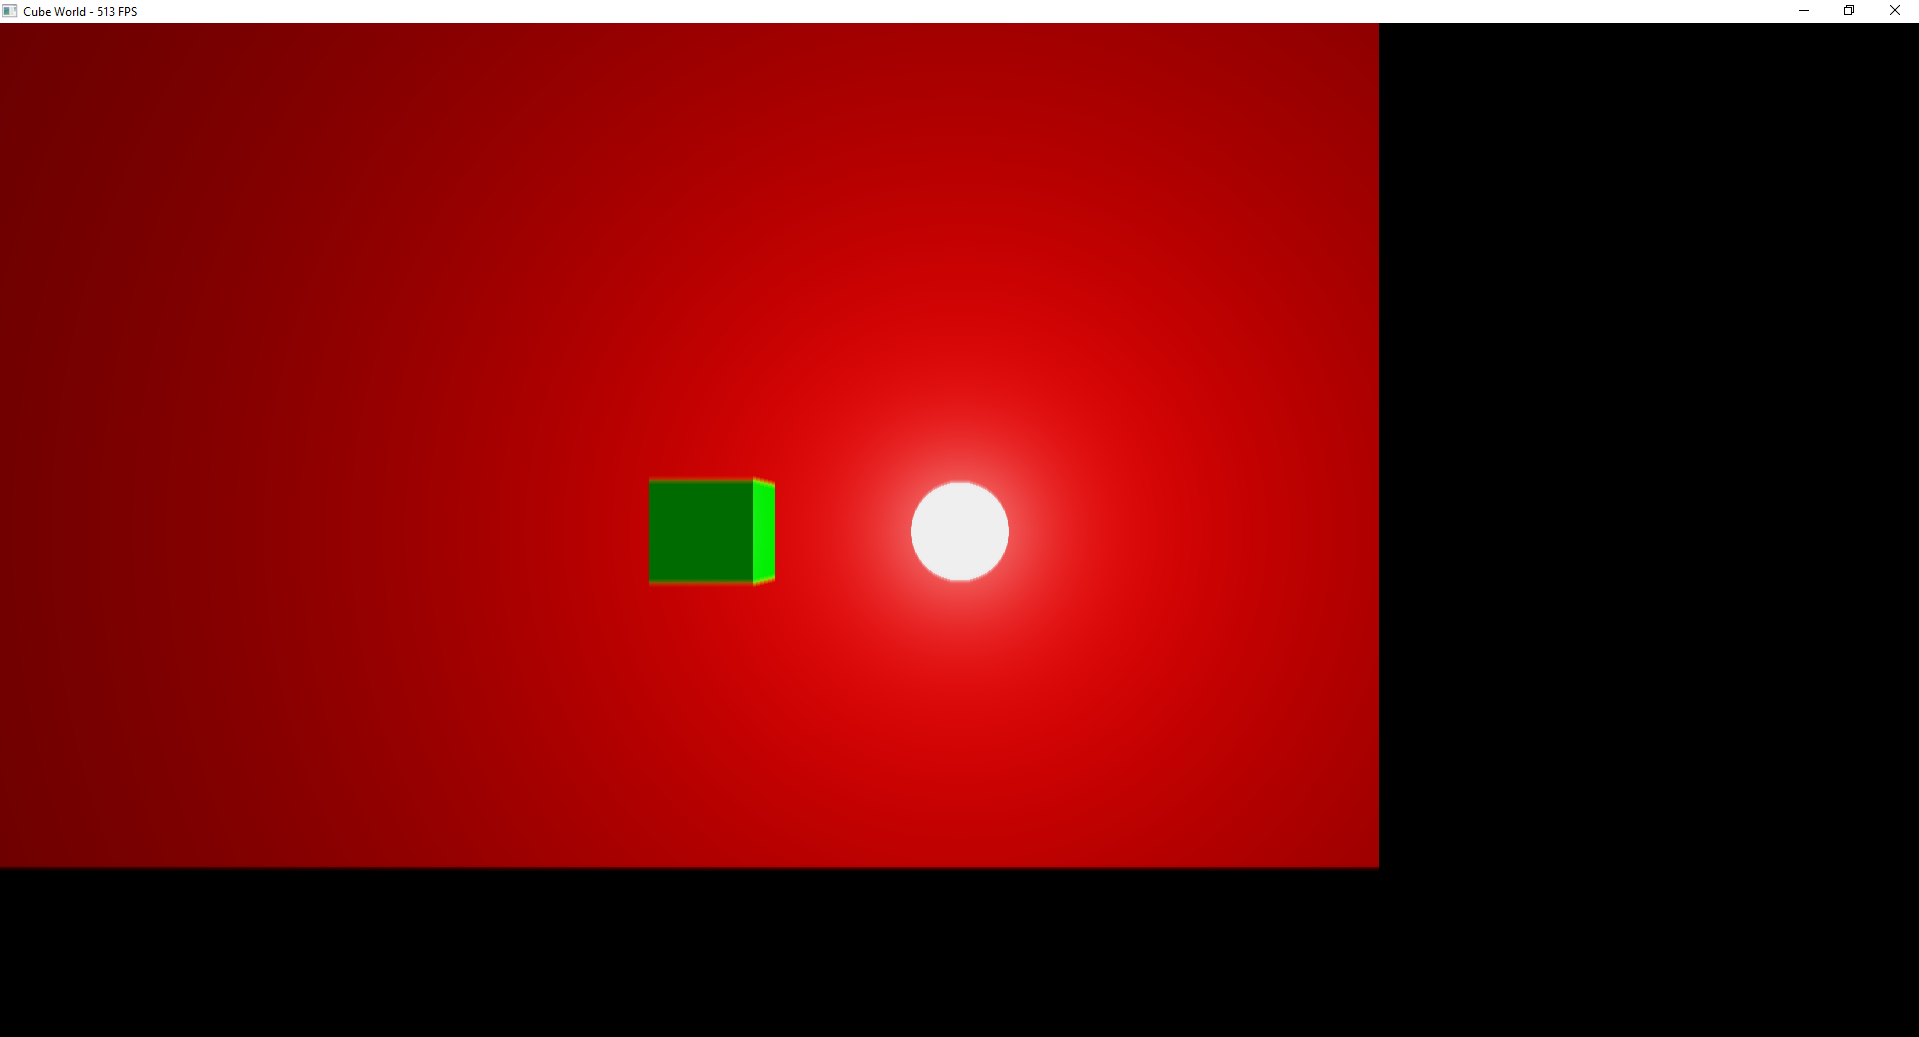
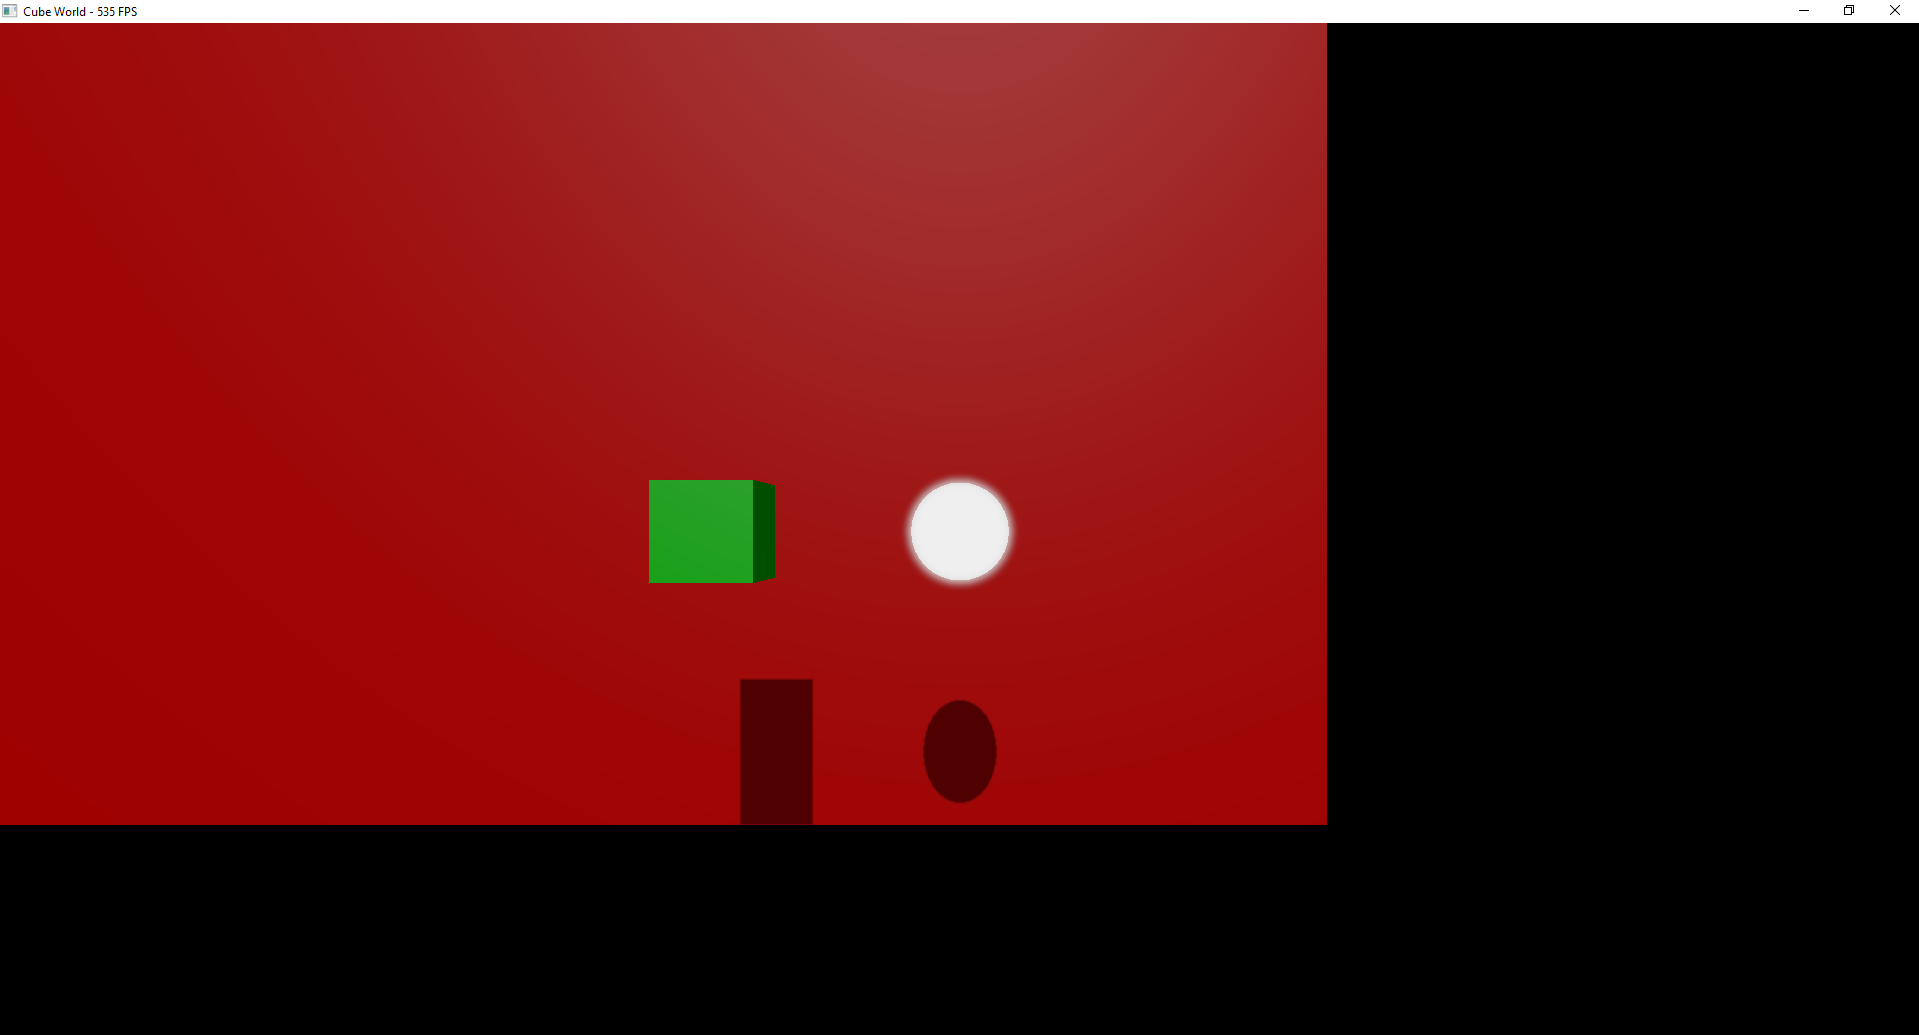
Обновлено изображение Реализованы тени от направленного источника света Убран порог срабатывания в LightBloom шейдере, для увеличения эффекта

diff --git a/src/Render/ForwardPlusPipeline.cpp b/src/Render/ForwardPlusPipeline.cpp
@@ -62,6 +62,8 @@ ForwardPlusPipeline::ForwardPlusPipeline()
     u32 attachments[2] = { GL_COLOR_ATTACHMENT0, GL_COLOR_ATTACHMENT1 };
     glDrawBuffers(2, attachments);
     glBindFramebuffer(GL_FRAMEBUFFER, 0);
+
+    initShadows();
 }
 
 ForwardPlusPipeline::~ForwardPlusPipeline()
@@ -133,9 +135,30 @@ void ForwardPlusPipeline::Resize(u16 offsetX, u16 offsetY, u16 width, u16 height
 
 void ForwardPlusPipeline::Render()
 {
-    // Depth stage
+    // Direction light shadow stage
     Shader &depth = (*shaders)["Depth"];
     depth.Use();
+
+    if (directionLight)
+    {
+        glm::mat4 vp = glm::ortho(-10.0f, 10.0f, -10.0f, 10.0f, 0.1f, 50.0f);
+        vp *= glm::lookAt(glm::vec3(directionLight.value().position), glm::vec3(directionLight.value().position) + glm::vec3(directionLight.value().direction), glm::vec3(0.0, 1.0, 0.0));
+        depth.SetMat4("vp", vp);
+
+        glViewport(0, 0, shaderMapEdgeSize, shaderMapEdgeSize);
+        glBindFramebuffer(GL_FRAMEBUFFER, dirDepthMapFBO);
+        glClear(GL_DEPTH_BUFFER_BIT);
+        for (const auto &rTask : *renderTasks)
+        {
+            depth.SetMat4("model", rTask.Transform);
+            glBindVertexArray(rTask.DrawData.VAO);
+            glDrawElements(Utils::GetDrawModeGL(rTask.DrawData.Mode), rTask.DrawData.Count, GL_UNSIGNED_INT, nullptr);
+        }
+    }
+
+    glViewport(offsetX, offsetY, width, height);
+
+    // Depth stage
     depth.SetMat4("vp", Camera::Main->GetVPMatrix(width, height));
 
     glBindFramebuffer(GL_FRAMEBUFFER, depthMapFBO);
@@ -196,16 +219,31 @@ void ForwardPlusPipeline::Render()
 
     glm::vec3 cameraPosition = ECS::ECS_Engine->GetEntityManager()->GetEntity(Camera::Main->GetOwner())->GetComponent<Transform>()->GetGlobalPos().position;
 
+    glActiveTexture(GL_TEXTURE0);
+    glBindTexture(GL_TEXTURE_2D, dirDepthMap);
+
+    glm::mat4 camVP = Camera::Main->GetVPMatrix(width, height);
+    glm::mat4 dirVP;
+    if (directionLight)
+    {
+        dirVP = glm::ortho(-10.0f, 10.0f, -10.0f, 10.0f, 0.1f, 50.0f);
+        dirVP *= glm::lookAt(glm::vec3(directionLight.value().position), glm::vec3(directionLight.value().position) + glm::vec3(directionLight.value().direction), glm::vec3(0.0, 1.0, 0.0));
+    }
+    else
+        dirVP = camVP;
+
     for (const auto &[name, materialMap] : *renderObjects)
     {
         Shader &shader = (*shaders)[name];
         shader.Use();
-        shader.SetMat4("vp", Camera::Main->GetVPMatrix(width, height));
+        shader.SetMat4("vp", camVP);
+        shader.SetMat4("lightSpaceMatrix", dirVP);
         shader.SetInt("numberOfTilesX", (width + width % 16) / 16);
         shader.SetVec3("viewPos", cameraPosition);
 
         if (directionLight)
         {
+            shader.SetVec4("dirLight.position", directionLight.value().position);
             shader.SetVec4("dirLight.color", directionLight.value().colorAndIntensity);
             shader.SetVec4("dirLight.direction", directionLight.value().direction);
         }
@@ -313,4 +351,25 @@ void ForwardPlusPipeline::setupMaterial(Shader &shader, Material *material)
 
     for (const auto &sampler : materialSet.Samplers)
         shader.SetTextureHandle(sampler.first, sampler.second.Handle);
+}
+
+void ForwardPlusPipeline::initShadows()
+{
+    glGenFramebuffers(1, &dirDepthMapFBO);
+    glGenTextures(1, &dirDepthMap);
+    glBindTexture(GL_TEXTURE_2D, dirDepthMap);
+    glTexImage2D(GL_TEXTURE_2D, 0, GL_DEPTH_COMPONENT, shaderMapEdgeSize, shaderMapEdgeSize, 0, GL_DEPTH_COMPONENT, GL_FLOAT, nullptr);
+    glTexParameteri(GL_TEXTURE_2D, GL_TEXTURE_MIN_FILTER, GL_NEAREST);
+    glTexParameteri(GL_TEXTURE_2D, GL_TEXTURE_MAG_FILTER, GL_NEAREST);
+    glTexParameteri(GL_TEXTURE_2D, GL_TEXTURE_WRAP_S, GL_CLAMP_TO_BORDER);
+    glTexParameteri(GL_TEXTURE_2D, GL_TEXTURE_WRAP_T, GL_CLAMP_TO_BORDER);
+    float borderColor[] = { 1.0, 1.0, 1.0, 1.0 };
+    glTexParameterfv(GL_TEXTURE_2D, GL_TEXTURE_BORDER_COLOR, borderColor);
+
+    glBindFramebuffer(GL_FRAMEBUFFER, dirDepthMapFBO);
+    glFramebufferTexture2D(GL_FRAMEBUFFER, GL_DEPTH_ATTACHMENT, GL_TEXTURE_2D, dirDepthMap, 0);
+    glDrawBuffer(GL_NONE);
+    glReadBuffer(GL_NONE);
+    glClear(GL_DEPTH_BUFFER_BIT);
+    glBindFramebuffer(GL_FRAMEBUFFER, 0);
 }

diff --git a/src/Engine.cpp b/src/Engine.cpp
@@ -48,10 +48,10 @@ Engine::Engine()
     mesh->SetMesh(Utils::CreateSphere(32));
 
     auto *light = static_cast<GameObject*>(EM.GetEntity(EM.CreateEntity<GameObject>()));
+    pos.position.y = 10;
+    pos.rotate = glm::radians(glm::vec3(-45.0f, 0.0f, 0.0f));
     light->AddComponent<Transform>()->SetLocalPos(pos);
-    auto *lightSource = light->AddComponent<LightSource>();
-    lightSource->SetLightType(LightType::Point);
-    lightSource->SetRadius(100);
+    light->AddComponent<LightSource>()->SetIntensity(0.5);
 
     auto *cube = static_cast<GameObject*>(EM.GetEntity(EM.CreateEntity<GameObject>()));
     pos = cube->AddComponent<Transform>()->GetLocalPos();
@@ -79,7 +79,7 @@ Engine::Engine()
     materialComponent = plane->AddComponent<MaterialComponent>();
     pos.position.x = -10;
     pos.position.y = -8;
-    pos.position.z = 21;
+    pos.position.z = 24;
     pos.scale = glm::vec3(10.0f);
     pos.rotate = glm::radians(glm::vec3(-90.0f, 0.0f, 0.0f));
     plane->GetComponent<Transform>()->SetLocalPos(pos);

diff --git a/src/Systems/RenderSystem.cpp b/src/Systems/RenderSystem.cpp
@@ -80,6 +80,8 @@ void RenderSystem::PreUpdate()
                 else
                 {
                     Utils::DirectionLight light;
+                    auto position = glm::vec3(transform->GetMat()[3]);
+                    light.position = glm::vec4(position, 1.0f);
                     light.colorAndIntensity = glm::vec4(lightSource.GetColor(), lightSource.GetIntensity());
                     glm::vec3 direction = transform->GetGlobalPos().rotate * glm::vec3(0.0f, -1.0f, 0.0f);
                     light.direction = glm::vec4(direction, 1.0f);

diff --git a/include/Render/ForwardPlusPipeline.h b/include/Render/ForwardPlusPipeline.h
@@ -11,6 +11,10 @@ private:
     u32 pingPongBuffers[2];
     u32 blurAmount = 10;
 
+    u16 shaderMapEdgeSize = 1024;
+
+    u32 dirDepthMapFBO, dirDepthMap;
+
     u16 offsetX = 0, offsetY = 0;
     u16 width = 0, height = 0;
 
@@ -27,6 +31,7 @@ private:
     u16 pointLightPos, spotLightPos;
 
     void setupMaterial(Shader &shader, Material *material);
+    void initShadows();
 
 public:
     ForwardPlusPipeline();

diff --git a/include/Render/GLUtils.h b/include/Render/GLUtils.h
@@ -7,6 +7,7 @@
 
 namespace Utils {
     struct DirectionLight {
+        glm::vec4 position;
         glm::vec4 direction;
         glm::vec4 colorAndIntensity;
     };
